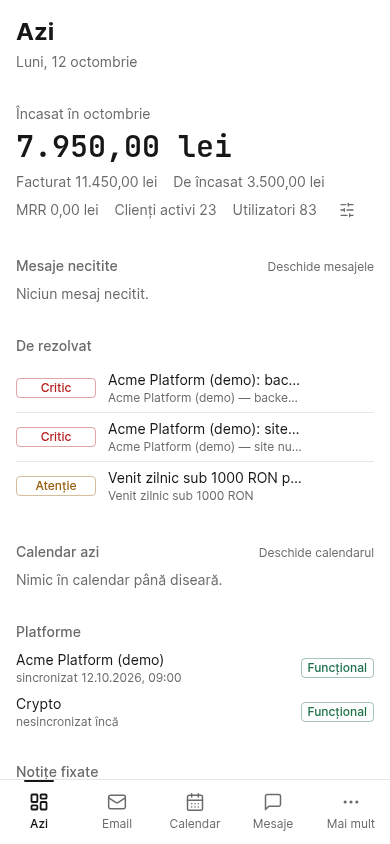
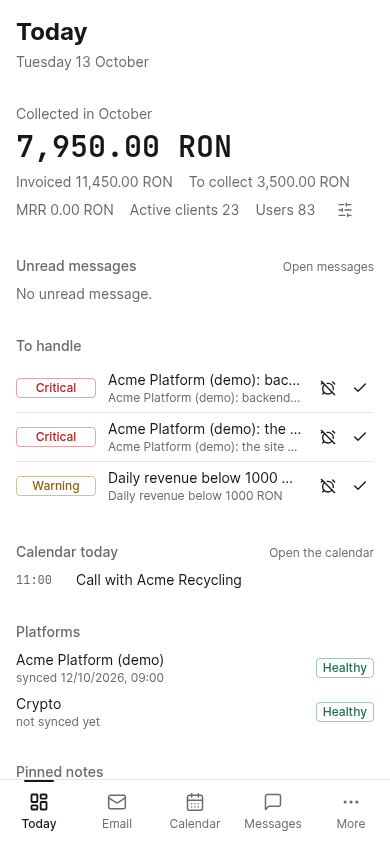
Enable English, add QA tests and refresh the docs
English is now selectable in My profile and on the auth pages. Tests
fail on Romanian text written into code outside the listed exceptions.
Screenshots, README, changelog and .env.example describe both languages.

diff --git a/backend/src/shared/lib/no-romanian-in-code.test.ts b/backend/src/shared/lib/no-romanian-in-code.test.ts
@@ -1,0 +1,90 @@
+import { readdirSync, readFileSync, statSync } from 'node:fs'
+import { join, relative, resolve } from 'node:path'
+import ts from 'typescript'
+import { describe, expect, it } from 'vitest'
+
+// A text a person reads belongs in src/locales, in each language. This test finds Romanian
+// written straight into code: string literals with diacritics, outside the places listed below.
+// Comments are not looked at, and neither are log lines, which are for the operator.
+
+const SRC = resolve(__dirname, '../..')
+const DIACRITICS = /[ăâîșțĂÂÎȘȚşţŞŢ]/
+
+/** Paths (relative to src) that keep Romanian on purpose, each with its reason. */
+const KEPT_IN_ROMANIAN: Array<[path: string, why: string]> = [
+  ['locales/', 'the texts themselves'],
+  ['scripts/', 'one-off maintenance scripts, read by the operator'],
+  ['shared/testing/', 'test helpers'],
+  ['shared/db/seed-demo.ts', 'demo rows, written in both languages'],
+  ['shared/lib/contract-template-bodies.ts', 'contracts are Romanian legal documents'],
+  ['shared/lib/contract-templates.ts', 'contracts are Romanian legal documents'],
+  ['shared/lib/documents.ts', 'the invoice PDF is a Romanian fiscal document'],
+  ['shared/lib/financial-archive.ts', 'folder names of the fiscal archive'],
+  ['shared/lib/payment-confirmation.ts', 'email to a client'],
+  ['shared/config.ts', 'unsubscribe line of emails to clients'],
+  ['connectors/anaf/', 'e-Factura XML and declarations for the Romanian tax authority'],
+  ['modules/accounting/d301.ts', 'VAT declarations'],
+  ['modules/accounting/quarterly-package.ts', 'package for the accountant'],
+  ['modules/pricing/price-sheet.ts', 'price sheet sent to clients'],
+  ['modules/prospects/import-service.ts', 'column names of the Romanian company registry export'],
+  ['modules/email/service.ts', 'unsubscribe footer of emails to clients'],
+  ['modules/email/routes.ts', 'unsubscribe page shown to email recipients'],
+  ['modules/assistant/tools/', 'tool descriptions, read by the model'],
+  ['modules/assistant/system-prompt.ts', 'instructions for the model'],
+  ['jobs/billing-cycle-rollover.ts', 'emails to clients'],
+  ['jobs/poll-anaf-upload-status.ts', 'email to a client, with the invoice attached'],
+]
+
+const LOG_CALL = /(^|\.)(log|logger|console)\.(trace|debug|info|warn|error|fatal|log)$/
+
+function sourceFiles(dir: string, out: string[] = []): string[] {
+  for (const entry of readdirSync(dir)) {
+    const path = join(dir, entry)
+    if (statSync(path).isDirectory()) sourceFiles(path, out)
+    else if (path.endsWith('.ts') && !path.endsWith('.test.ts')) out.push(path)
+  }
+  return out
+}
+
+function isInsideLogCall(node: ts.Node): boolean {
+  for (let parent = node.parent; parent; parent = parent.parent) {
+    if (ts.isCallExpression(parent) && LOG_CALL.test(parent.expression.getText())) return true
+    if (ts.isFunctionLike(parent)) return false
+  }
+  return false
+}
+
+function romanianLiterals(file: string): string[] {
+  const source = ts.createSourceFile(file, readFileSync(file, 'utf8'), ts.ScriptTarget.Latest, true)
+  const found: string[] = []
+  const visit = (node: ts.Node) => {
+    const isText =
+      ts.isStringLiteral(node) || ts.isNoSubstitutionTemplateLiteral(node) || ts.isTemplateHead(node) || ts.isTemplateMiddle(node) || ts.isTemplateTail(node)
+    if (isText && DIACRITICS.test(node.text) && !isInsideLogCall(node)) {
+      const line = source.getLineAndCharacterOfPosition(node.getStart()).line + 1
+      found.push(`${relative(SRC, file)}:${line}  ${node.text.trim().slice(0, 60)}`)
+    }
+    ts.forEachChild(node, visit)
+  }
+  visit(source)
+  return found
+}
+
+describe('Romanian text in backend code', () => {
+  it('lives only in src/locales and in the documents that stay Romanian', () => {
+    const files = sourceFiles(SRC).filter((file) => !KEPT_IN_ROMANIAN.some(([path]) => relative(SRC, file).startsWith(path)))
+    expect(files.flatMap(romanianLiterals)).toEqual([])
+  })
+
+  it('every exception still exists', () => {
+    const gone = KEPT_IN_ROMANIAN.filter(([path]) => {
+      try {
+        statSync(join(SRC, path))
+        return false
+      } catch {
+        return true
+      }
+    })
+    expect(gone.map(([path]) => path)).toEqual([])
+  })
+})

diff --git a/backend/src/shared/lib/alerting.locale.test.ts b/backend/src/shared/lib/alerting.locale.test.ts
@@ -1,0 +1,63 @@
+/**
+ * An alert raised by a job has no reader yet: the row is stored in the installation's
+ * language, and each person's phone gets it in their own. Integration test on the real
+ * database, with the FCM sender replaced.
+ */
+import { eq, inArray } from 'drizzle-orm'
+import { afterAll, beforeAll, describe, expect, it, vi } from 'vitest'
+import { db } from '../db/client.js'
+import { alertRules, alerts, deviceTokens, users } from '../db/schema/index.js'
+
+vi.mock('./email.js', () => ({ sendAlertEmail: vi.fn(async () => {}), sendEmail: vi.fn(async () => {}) }))
+
+const { ensureAlertRule, raiseAlert } = await import('./alerting.js')
+const { tl } = await import('./i18n.js')
+const { setFcmSenderForTests, setPushPreferences } = await import('./push.js')
+
+const stamp = Date.now()
+const RULE_KEY = `qa.locale.${stamp}`
+const sent: Array<{ tokens: string[]; title: string; body: string }> = []
+let people: Array<{ id: string }> = []
+let ruleId = ''
+
+beforeAll(async () => {
+  await setPushPreferences({ alerts: true })
+  people = await db
+    .insert(users)
+    .values([
+      { email: `qa-alert-ro-${stamp}@example.com`, passwordHash: 'x', locale: 'ro' },
+      { email: `qa-alert-en-${stamp}@example.com`, passwordHash: 'x', locale: 'en' },
+    ])
+    .returning({ id: users.id })
+  await db.insert(deviceTokens).values([
+    { token: `qa-alert-ro-${stamp}`, ownerUserId: people[0]!.id },
+    { token: `qa-alert-en-${stamp}`, ownerUserId: people[1]!.id },
+  ])
+  setFcmSenderForTests(async (tokens, payload) => {
+    sent.push({ tokens, title: payload.title, body: payload.body })
+    return []
+  })
+  ruleId = await ensureAlertRule(RULE_KEY, 'QA locale')
+})
+
+afterAll(async () => {
+  setFcmSenderForTests(null)
+  await db.delete(alerts).where(eq(alerts.ruleId, ruleId))
+  await db.delete(alertRules).where(eq(alertRules.id, ruleId))
+  await db.delete(users).where(inArray(users.id, people.map((person) => person.id)))
+})
+
+describe('an alert sent to people with different languages', () => {
+  it('goes out once per language, and is stored in the installation default', async () => {
+    await raiseAlert(ruleId, tl('alerts.jobs.botSilent', { minutes: 7 }), { email: false })
+    const mine = () => sent.filter((call) => call.tokens.some((token) => token.endsWith(String(stamp))))
+    await vi.waitFor(() => expect(mine().length).toBeGreaterThanOrEqual(2))
+
+    const forToken = (token: string) => mine().find((call) => call.tokens.includes(token))
+    expect(forToken(`qa-alert-ro-${stamp}`)).toMatchObject({ title: 'Alertă vana-dash', body: 'Botul nu mai trimite date de 7 min' })
+    expect(forToken(`qa-alert-en-${stamp}`)).toMatchObject({ title: 'VanaDash alert', body: 'The bot has not sent data for 7 min' })
+
+    const [stored] = await db.select({ message: alerts.message }).from(alerts).where(eq(alerts.ruleId, ruleId))
+    expect(stored?.message).toBe('Botul nu mai trimite date de 7 min')
+  })
+})

diff --git a/frontend/src/locales/no-romanian-in-code.test.ts b/frontend/src/locales/no-romanian-in-code.test.ts
@@ -1,0 +1,70 @@
+import { readdirSync, readFileSync, statSync } from 'node:fs'
+import { join, relative, resolve } from 'node:path'
+import ts from 'typescript'
+import { describe, expect, it } from 'vitest'
+
+// A text shown on screen belongs in src/locales, in each language. The lint rule catches a
+// literal written in JSX; this test catches the rest (a label map, a toast, a helper), by
+// looking for Romanian diacritics in string literals and JSX text. Comments are not looked at.
+
+const SRC = resolve(__dirname, '..')
+const DIACRITICS = /[ăâîșțĂÂÎȘȚşţŞŢ]/
+
+/** Paths (relative to src) that keep Romanian on purpose, each with its reason. */
+const KEPT_IN_ROMANIAN: Array<[path: string, why: string]> = [
+  ['locales/', 'the texts themselves'],
+  ['modules/help/guides.ts', 'guides carry both languages in the file'],
+  ['modules/updates/releases.ts', 'release notes carry both languages in the file'],
+  ['shared/lib/locale.ts', 'the name of the Romanian language, in Romanian'],
+  ['modules/accounting/AddendumFormDialog.tsx', 'a default clause that goes into a Romanian contract'],
+]
+
+function sourceFiles(dir: string, out: string[] = []): string[] {
+  for (const entry of readdirSync(dir)) {
+    const path = join(dir, entry)
+    if (statSync(path).isDirectory()) sourceFiles(path, out)
+    else if (/\.tsx?$/.test(path) && !/\.test\.tsx?$/.test(path)) out.push(path)
+  }
+  return out
+}
+
+function romanianLiterals(file: string): string[] {
+  const kind = file.endsWith('x') ? ts.ScriptKind.TSX : ts.ScriptKind.TS
+  const source = ts.createSourceFile(file, readFileSync(file, 'utf8'), ts.ScriptTarget.Latest, true, kind)
+  const found: string[] = []
+  const visit = (node: ts.Node) => {
+    const isText =
+      ts.isStringLiteral(node) ||
+      ts.isNoSubstitutionTemplateLiteral(node) ||
+      ts.isJsxText(node) ||
+      ts.isTemplateHead(node) ||
+      ts.isTemplateMiddle(node) ||
+      ts.isTemplateTail(node)
+    if (isText && DIACRITICS.test(node.text)) {
+      const line = source.getLineAndCharacterOfPosition(node.getStart()).line + 1
+      found.push(`${relative(SRC, file)}:${line}  ${node.text.trim().slice(0, 60)}`)
+    }
+    ts.forEachChild(node, visit)
+  }
+  visit(source)
+  return found
+}
+
+describe('Romanian text in frontend code', () => {
+  it('lives only in src/locales and in the files that carry both languages', () => {
+    const files = sourceFiles(SRC).filter((file) => !KEPT_IN_ROMANIAN.some(([path]) => relative(SRC, file).startsWith(path)))
+    expect(files.flatMap(romanianLiterals)).toEqual([])
+  })
+
+  it('every exception still exists', () => {
+    const gone = KEPT_IN_ROMANIAN.filter(([path]) => {
+      try {
+        statSync(join(SRC, path))
+        return false
+      } catch {
+        return true
+      }
+    })
+    expect(gone.map(([path]) => path)).toEqual([])
+  })
+})

diff --git a/backend/src/modules/contracts/reserved-numbers-service.ts b/backend/src/modules/contracts/reserved-numbers-service.ts
@@ -3,20 +3,21 @@ import { db } from '../../shared/db/client.js'
 import { dashboardConfig } from '../../shared/db/schema/index.js'
 import { recordAudit } from '../../shared/lib/audit.js'
 import { ReservedNumbersSchema, type ReservedNumber } from './schema.js'
+import { tr } from '../../shared/lib/i18n.js'
 
 export const RESERVED_NUMBERS_CONFIG_KEY = 'contract.reservedNumbers'
 
 // Valabil doar cât timp cheia lipsește din dashboard_config: după prima salvare (inclusiv o
 // listă golită de om) contează rândul din DB, deci 003 șters nu reapare.
-const SEED_RESERVED_NUMBERS: ReservedNumber[] = [
-  { number: '003', note: 'Contract de colaborare, în afara aplicației', date: '2026-09-28' },
+const seedReservedNumbers = (): ReservedNumber[] => [
+  { number: '003', note: tr('errors.contracts.reservedSeedNote'), date: '2026-09-28' },
 ]
 
 export class ReservedNumberDuplicateError extends Error {}
 
 export async function listReservedNumbers(): Promise<ReservedNumber[]> {
   const [row] = await db.select().from(dashboardConfig).where(eq(dashboardConfig.key, RESERVED_NUMBERS_CONFIG_KEY))
-  return row ? ReservedNumbersSchema.parse(row.value) : SEED_RESERVED_NUMBERS
+  return row ? ReservedNumbersSchema.parse(row.value) : seedReservedNumbers()
 }
 
 export async function replaceReservedNumbers(next: ReservedNumber[]): Promise<ReservedNumber[]> {

diff --git a/backend/src/modules/auth/locale.test.ts b/backend/src/modules/auth/locale.test.ts
@@ -46,6 +46,16 @@ const wrongPassword = (cookie: string) =>
   })
 
 describe('language of an error', () => {
+  it('uses the language picked on a page before login', async () => {
+    const res = await app.inject({
+      method: 'POST',
+      url: '/api/auth/login',
+      headers: { 'x-locale': 'en' },
+      payload: { email: 'nobody@example.com', password: 'x' },
+    })
+    expect(res.json().error).toBe('Wrong email or password')
+  })
+
   it('follows the person, not the installation', async () => {
     expect((await wrongPassword(roCookie)).json().error).toBe('Parola curentă nu e corectă')
     expect((await wrongPassword(enCookie)).json().error).toBe('The current password is not correct')
@@ -95,6 +105,14 @@ describe('PATCH /api/auth/me', () => {
 
   it('refuses a language outside the list', async () => {
     expect((await patch({ locale: 'fr' })).statusCode).toBe(400)
+  })
+
+  it('saves the language, and the next error comes in it', async () => {
+    const res = await patch({ locale: 'en' })
+    expect(res.statusCode).toBe(200)
+    expect(res.json().data.locale).toBe('en')
+    expect((await wrongPassword(roCookie)).json().error).toBe('The current password is not correct')
+    await patch({ locale: 'ro' })
   })
 })
 

diff --git a/backend/src/modules/pricing/routes.ts b/backend/src/modules/pricing/routes.ts
@@ -4,7 +4,7 @@ import { getPlatform } from '../platforms/service.js'
 import { isSelfServePricingEnabled, setSelfServePricingEnabled } from '../vanagreen-ingest/service.js'
 import { htmlToPdf, isPdfAvailable } from '../../shared/lib/pdf.js'
 import { calculatePrice } from './calc.js'
-import { renderPriceSheetHtml } from './price-sheet.js'
+import { PRICE_SHEET_PLATFORM_FALLBACK, renderPriceSheetHtml } from './price-sheet.js'
 import {
   PricingCalculateSchema,
   PricingConfigQuerySchema,
@@ -71,7 +71,7 @@ export async function pricingRoutes(app: FastifyInstance) {
       if (!isPdfAvailable()) {
         return reply.code(503).send({ success: false, error: tr('errors.pdf.unavailableRetry') })
       }
-      const html = renderPriceSheetHtml(configRow.config as PricingConfig, platform?.name ?? 'Platformă')
+      const html = renderPriceSheetHtml(configRow.config as PricingConfig, platform?.name ?? PRICE_SHEET_PLATFORM_FALLBACK)
       const pdf = await htmlToPdf(html)
       reply.header('Content-Disposition', 'inline; filename="fisa-preturi.pdf"')
       return reply.type('application/pdf').send(pdf)

diff --git a/backend/src/shared/lib/locale.ts b/backend/src/shared/lib/locale.ts
@@ -5,8 +5,8 @@ export const LOCALES = ['ro', 'en'] as const
 export type Locale = (typeof LOCALES)[number]
 export const INTL_TAG: Record<Locale, string> = { ro: 'ro-RO', en: 'en-GB' }
 
-/** Languages a person can pick. A locale stays out of this list until every screen has it. */
-export const ENABLED_LOCALES: readonly Locale[] = ['ro']
+/** Languages a person can pick. A new locale stays out of this list until every screen has it. */
+export const ENABLED_LOCALES: readonly Locale[] = ['ro', 'en']
 
 // The currencies the BNR feed stores a rate for, plus RON itself.
 export const DISPLAY_CURRENCIES = ['RON', 'EUR', 'USD'] as const

diff --git a/backend/src/modules/pricing/price-sheet.ts b/backend/src/modules/pricing/price-sheet.ts
@@ -1,6 +1,9 @@
 import { calculatePrice } from './calc.js'
 import type { PricingCalculateInput, PricingConfig } from './schema.js'
 
+/** Heading of the sheet when the platform has no name. The sheet is a Romanian document. */
+export const PRICE_SHEET_PLATFORM_FALLBACK = 'Platformă'
+
 // Fișă de prețuri (2026-09-21, Stefan) — un-pager PDF exportat din Config preț, de trimis unui
 // prospect alături de contracte, fără date de client. Stilat identic cu documentele contractuale
 // (paleta/fonturile din shared/lib/contract-template-bodies.ts: #0f2447, Helvetica Neue, tabele

diff --git a/backend/src/app.ts b/backend/src/app.ts
@@ -86,6 +86,8 @@ export async function buildServer() {
     }
     const statusCode = error.statusCode ?? 500
     if (statusCode >= 500) request.log.error(error)
+    // The rate limiter writes its own message, in English, with the time left.
+    if (statusCode === 429) return reply.code(429).send({ success: false, error: tr('errors.rateLimited') })
     return reply.code(statusCode).send({ success: false, error: statusCode >= 500 ? tr('errors.internal') : error.message })
   })
 

diff --git a/frontend/src/modules/financials/FinancialsPage.tsx b/frontend/src/modules/financials/FinancialsPage.tsx
@@ -194,9 +194,9 @@ export function FinancialsPage() {
 type BnrRangeKey = 'week' | 'month' | 'year'
 
 const BNR_RANGE_OPTIONS: [BnrRangeKey, string][] = [
-  ['week', t('financials:cashFlow.week')],
-  ['month', 'Luna'],
-  ['year', 'Anul'],
+  ['week', t('financials:bnr.rangeWeek')],
+  ['month', t('financials:bnr.rangeMonth')],
+  ['year', t('financials:bnr.rangeYear')],
 ]
 
 function toDateKey(d: Date): string {

diff --git a/backend/src/modules/archive/service.ts b/backend/src/modules/archive/service.ts
@@ -484,7 +484,7 @@ export async function ensureFolderPath(rootId: string, names: string[]): Promise
   for (const name of names) {
     parentId = await ensureFolder(name, parentId)
   }
-  if (!parentId) throw new Error('ensureFolderPath necesită cel puțin un nume de folder')
+  if (!parentId) throw new Error('ensureFolderPath needs at least one folder name')
   return parentId
 }
 

diff --git a/frontend/src/modules/support/SupportPage.tsx b/frontend/src/modules/support/SupportPage.tsx
@@ -98,7 +98,7 @@ export function SupportPage({ scope }: { scope: SupportScope }) {
             kind="new"
             title={t('support:emptyMineTitle')}
             description={t('support:emptyMineHint')}
-            action={newTicketButton('Deschide primul tichet')}
+            action={newTicketButton(t('support:openFirstTicket'))}
           />
         )
       ) : (
